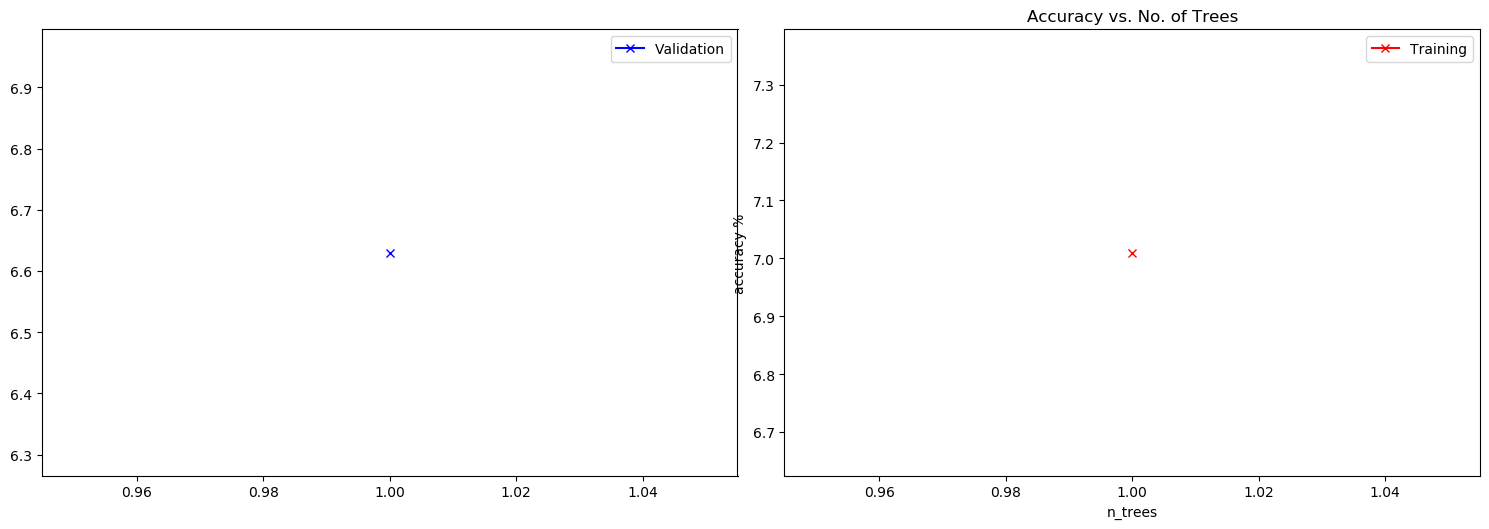
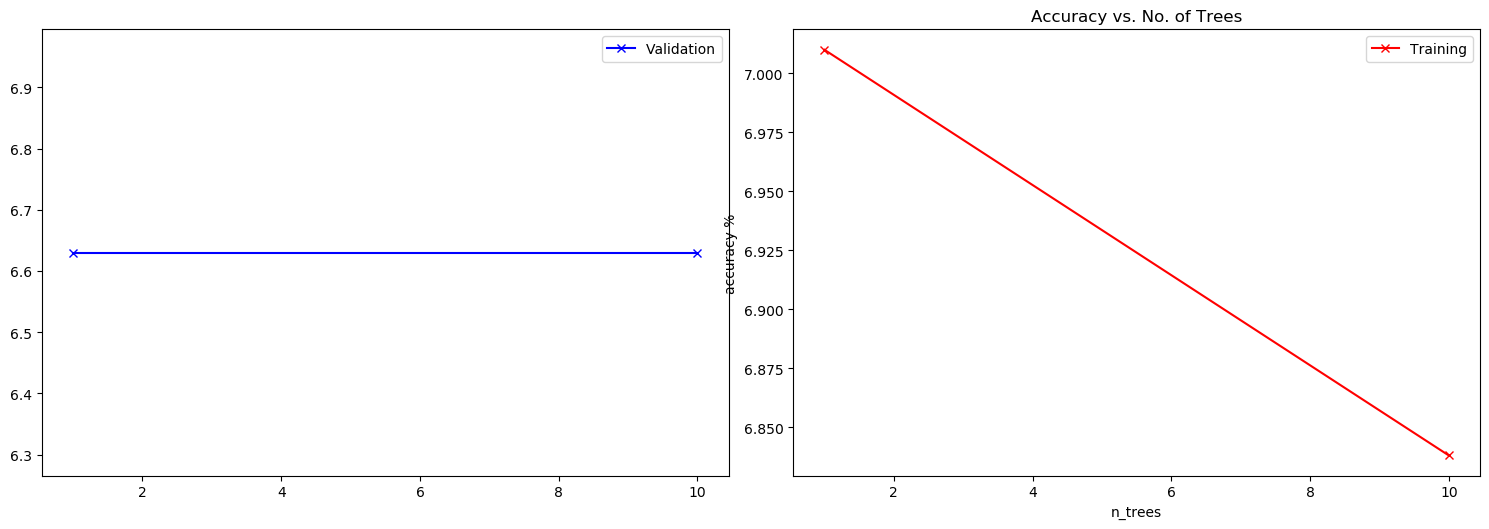
update results

diff --git a/RandomForests/RF_Part3.py b/RandomForests/RF_Part3.py
@@ -375,10 +375,26 @@ for n_estimators in [1, 10, 50, 100, 200, 500, 1000, 5000]:
 	rf_clf_Original.n_estimators = n_estimators
 	rf_clf_PCA.n_estimators = n_estimators
 	rf_clf_AE.n_estimators = n_estimators
-	
-	rf_clf_Original.fit(X_train, y_train)
-	rf_clf_PCA.fit(X_train_pca, y_train)
-	rf_clf_AE.fit(X_train_compr, y_train)
+
+	for filename, clf in [(parameter_identifier_orig, rf_clf_Original)
+						(parameter_identifier_pca, rf_clf_PCA),
+						(parameter_identifier_ae, rf_clf_AE)]:
+
+		if os.path.exists(filename):
+			with open(filename, "rb") as file:
+				clf = pickle.load(file)
+		else:
+			if clf == rf_clf_Original:
+				rf_clf_Original.fit(X_train, y_train)
+
+			if clf == rf_clf_PCA:
+				rf_clf_PCA.fit(X_train_pca, y_train)
+
+			if clf == rf_clf_AE:
+				rf_clf_AE.fit(X_train_compr, y_train)
+
+			with open(filename, "wb") as file:
+				pickle.dump(clf, file)
 
 
 	orig_train_acc_scores.append(100.0 * rf_clf_Original.score(X_train, y_train))
@@ -389,6 +405,7 @@ for n_estimators in [1, 10, 50, 100, 200, 500, 1000, 5000]:
 	orig_test_acc_scores.append(100.0 * rf_clf_Original.score(X_test, y_test))
 	pca_test_acc_scores.append(100.0 * rf_clf_PCA.score(X_test_pca, y_test))
 	ae_test_acc_scores.append(100.0 * rf_clf_AE.score(X_test_compr, y_test))
+
 
 	ests_list.append(n_estimators)
 
@@ -407,10 +424,5 @@ for n_estimators in [1, 10, 50, 100, 200, 500, 1000, 5000]:
 
 	# {rf.score(X_train_compr, y_train)*100}%
 	# {rf.score(X_test_compr, y_test)*100}%
-
-
-
-
-
 
 

diff --git a/RandomForests/RF_Part1.py b/RandomForests/RF_Part1.py
@@ -883,8 +883,11 @@ def plot_accuracies(history):
 
 	plt.subplot(1, 2, 1)
 	plt.plot(n_ests, test_accuracies, '-bx')
+	plt.legend(['Validation'])
+
 	plt.subplot(1, 2, 2)
 	plt.plot(n_ests, train_accuracies, '-rx')
+	plt.legend(['Training'])
 
 	plt.tight_layout()
 	plt.xlabel('n_trees')
